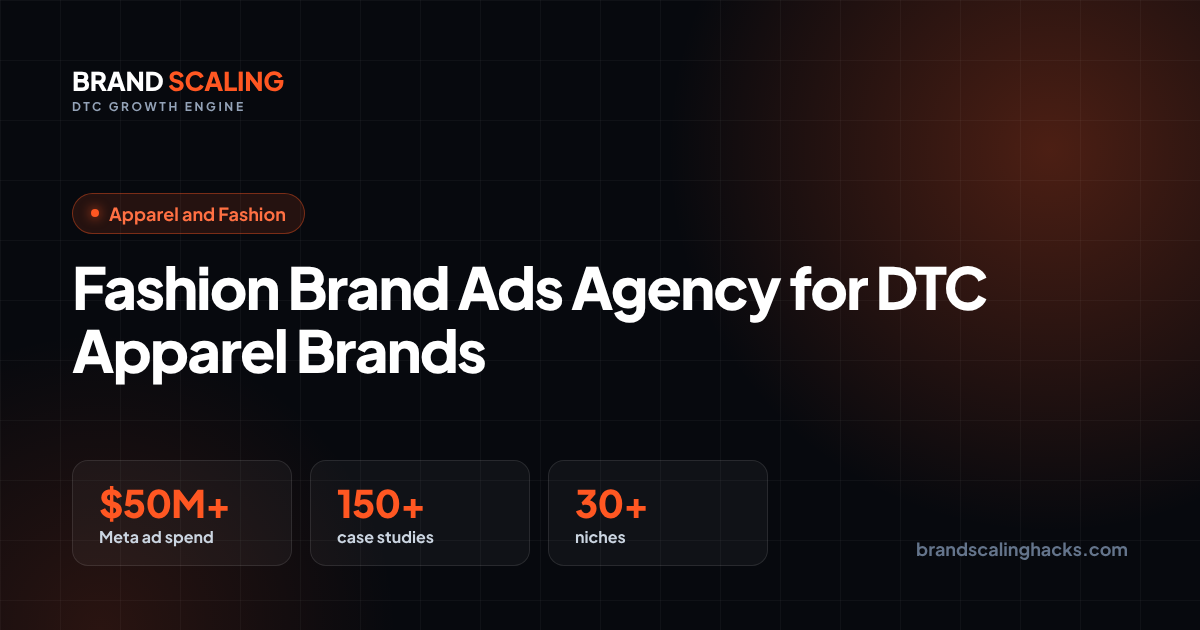
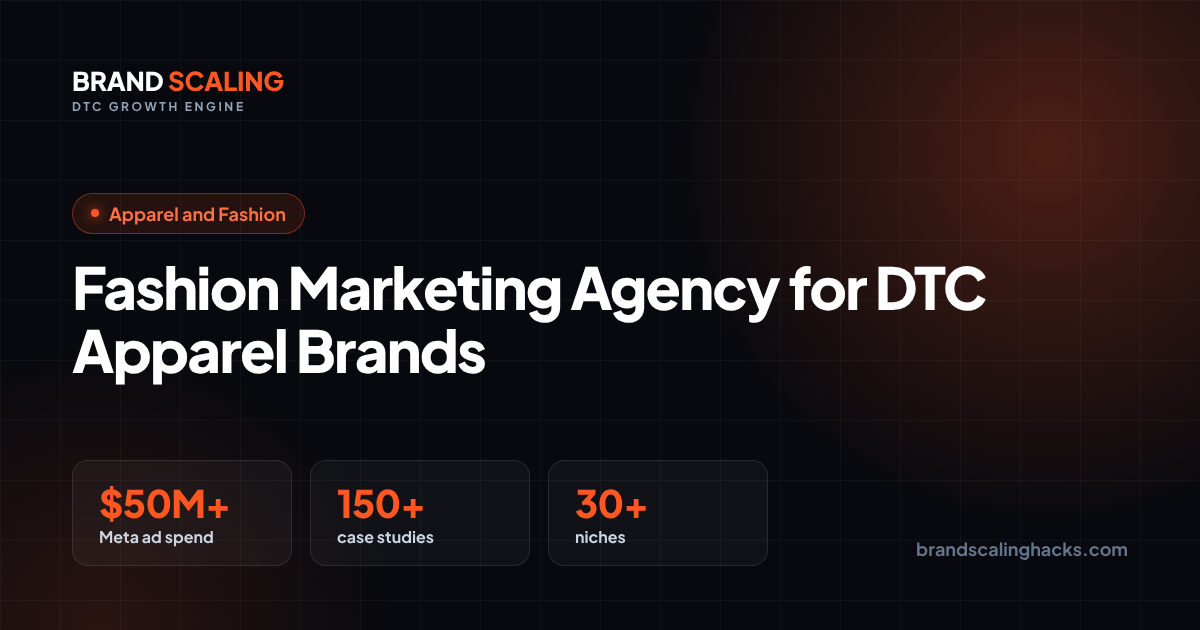
Industry pages retargeted to buyer keywords: fashion, jewelry, supplement, food and beverage marketing agency

Changed region(s): [[0.2467, 0.4222, 0.8017, 0.5127]]

diff --git a/src/data/pages/industry-1.js b/src/data/pages/industry-1.js
@@ -152,10 +152,11 @@ Foundation (days 1 to 14) fixes Conversions API tracking, the offer and the prod
   {
     path: '/for/supplements',
     kind: 'industry',
-    primaryKeyword: 'supplement brand marketing agency',
-    titleTag: 'Supplement Brand Marketing Agency | Brand Scaling',
-    metaDescription: 'Supplement brand marketing agency: compliant Meta and TikTok ads, subscription offers and retention flows. Results include $137,620 in a month at 3.89x.',
-    h1: 'Supplement Brand Marketing Agency for DTC Nutrition Brands',
+    primaryKeyword: 'supplement marketing agency',
+    secondaryKeywords: ['supplement brand marketing agency'],
+    titleTag: 'Supplement Marketing Agency for DTC Brands | Brand Scaling',
+    metaDescription: 'Supplement marketing agency: compliant Meta and TikTok ads, subscription offers and retention flows. Results include $137,620 in a month at 3.89x ROAS.',
+    h1: 'Supplement Marketing Agency for DTC Nutrition Brands',
     eyebrow: 'Supplements and Nutrition',
     quickAnswer: {
       question: 'What should a supplement brand marketing agency handle?',
@@ -295,10 +296,11 @@ One supplement brand we work with did $52,000 in 17 days at 4.51x ROAS on $11,58
   {
     path: '/for/apparel-fashion',
     kind: 'industry',
-    primaryKeyword: 'fashion brand ads agency',
-    titleTag: 'Fashion Brand Ads Agency for DTC Apparel | Brand Scaling',
-    metaDescription: 'Fashion brand ads agency for DTC apparel: Meta and TikTok ads for drops, collections and BFCM, with fit-first creative and lower-return funnels.',
-    h1: 'Fashion Brand Ads Agency for DTC Apparel Brands',
+    primaryKeyword: 'fashion marketing agency',
+    secondaryKeywords: ['fashion brand ads agency'],
+    titleTag: 'Fashion Marketing Agency for DTC Brands | Brand Scaling',
+    metaDescription: 'Fashion marketing agency for DTC apparel brands: Meta and TikTok ads for drops, collections and BFCM, with fit-first creative and lower-return funnels.',
+    h1: 'Fashion Marketing Agency for DTC Apparel Brands',
     eyebrow: 'Apparel and Fashion',
     quickAnswer: {
       question: 'What does a fashion brand ads agency do differently?',
@@ -549,10 +551,11 @@ Steady scaling matters too: a body contouring brand we run did $19,977 in one da
   {
     path: '/for/jewelry',
     kind: 'industry',
-    primaryKeyword: 'jewelry brand ads',
-    titleTag: 'Jewelry Brand Ads Management | Brand Scaling',
-    metaDescription: 'Jewelry brand ads for DTC jewelers: Meta and TikTok campaigns built for gifting seasons, high AOV and trust, including $54K in 7 days at 4.43x ROAS.',
-    h1: 'Jewelry Brand Ads That Sell Through Gifting Seasons',
+    primaryKeyword: 'jewelry marketing agency',
+    secondaryKeywords: ['jewelry brand ads'],
+    titleTag: 'Jewelry Marketing Agency for DTC Brands | Brand Scaling',
+    metaDescription: 'Jewelry marketing agency for DTC jewelers: Meta and TikTok ads built for gifting seasons, high AOV and trust, including $54K in 7 days at 4.43x ROAS.',
+    h1: 'Jewelry Marketing Agency for Gifting-Season Growth',
     eyebrow: 'Jewelry Brands',
     quickAnswer: {
       question: 'How should a DTC jeweler run jewelry brand ads?',

diff --git a/src/data/contentIndex.js b/src/data/contentIndex.js
@@ -131,17 +131,17 @@ export const CONTENT_INDEX = [
   {
     "path": "/for/supplements",
     "kind": "industry",
-    "titleTag": "Supplement Brand Marketing Agency | Brand Scaling",
-    "metaDescription": "Supplement brand marketing agency: compliant Meta and TikTok ads, subscription offers and retention flows. Results include $137,620 in a month at 3.89x.",
-    "h1": "Supplement Brand Marketing Agency for DTC Nutrition Brands",
+    "titleTag": "Supplement Marketing Agency for DTC Brands | Brand Scaling",
+    "metaDescription": "Supplement marketing agency: compliant Meta and TikTok ads, subscription offers and retention flows. Results include $137,620 in a month at 3.89x ROAS.",
+    "h1": "Supplement Marketing Agency for DTC Nutrition Brands",
     "eyebrow": "Supplements and Nutrition"
   },
   {
     "path": "/for/apparel-fashion",
     "kind": "industry",
-    "titleTag": "Fashion Brand Ads Agency for DTC Apparel | Brand Scaling",
-    "metaDescription": "Fashion brand ads agency for DTC apparel: Meta and TikTok ads for drops, collections and BFCM, with fit-first creative and lower-return funnels.",
-    "h1": "Fashion Brand Ads Agency for DTC Apparel Brands",
+    "titleTag": "Fashion Marketing Agency for DTC Brands | Brand Scaling",
+    "metaDescription": "Fashion marketing agency for DTC apparel brands: Meta and TikTok ads for drops, collections and BFCM, with fit-first creative and lower-return funnels.",
+    "h1": "Fashion Marketing Agency for DTC Apparel Brands",
     "eyebrow": "Apparel and Fashion"
   },
   {
@@ -155,9 +155,9 @@ export const CONTENT_INDEX = [
   {
     "path": "/for/jewelry",
     "kind": "industry",
-    "titleTag": "Jewelry Brand Ads Management | Brand Scaling",
-    "metaDescription": "Jewelry brand ads for DTC jewelers: Meta and TikTok campaigns built for gifting seasons, high AOV and trust, including $54K in 7 days at 4.43x ROAS.",
-    "h1": "Jewelry Brand Ads That Sell Through Gifting Seasons",
+    "titleTag": "Jewelry Marketing Agency for DTC Brands | Brand Scaling",
+    "metaDescription": "Jewelry marketing agency for DTC jewelers: Meta and TikTok ads built for gifting seasons, high AOV and trust, including $54K in 7 days at 4.43x ROAS.",
+    "h1": "Jewelry Marketing Agency for Gifting-Season Growth",
     "eyebrow": "Jewelry Brands"
   },
   {
@@ -203,9 +203,9 @@ export const CONTENT_INDEX = [
   {
     "path": "/for/food-beverage",
     "kind": "industry",
-    "titleTag": "Food and Beverage DTC Marketing Agency | Brand Scaling",
+    "titleTag": "Food and Beverage Marketing Agency | Brand Scaling",
     "metaDescription": "Food and beverage DTC marketing for Shopify brands: sampling offers, taste-led creative, shipping cost strategy, subscriptions and repeat rate growth.",
-    "h1": "Food and Beverage DTC Marketing That Builds Repeat Customers",
+    "h1": "Food and Beverage Marketing Agency for DTC and CPG Brands",
     "eyebrow": "Food and Beverage"
   },
   {

diff --git a/src/data/pages/industry-2.js b/src/data/pages/industry-2.js
@@ -249,10 +249,11 @@ Pinterest-style inspiration happens everywhere now, so we treat room and lifesty
   {
     path: '/for/food-beverage',
     kind: 'industry',
-    primaryKeyword: 'food and beverage dtc marketing',
-    titleTag: 'Food and Beverage DTC Marketing Agency | Brand Scaling',
+    primaryKeyword: 'food and beverage marketing agency',
+    secondaryKeywords: ['food and beverage dtc marketing', 'cpg marketing agency'],
+    titleTag: 'Food and Beverage Marketing Agency | Brand Scaling',
     metaDescription: `Food and beverage DTC marketing for Shopify brands: sampling offers, taste-led creative, shipping cost strategy, subscriptions and repeat rate growth.`,
-    h1: 'Food and Beverage DTC Marketing That Builds Repeat Customers',
+    h1: 'Food and Beverage Marketing Agency for DTC and CPG Brands',
     eyebrow: 'Food and Beverage',
     quickAnswer: {
       question: 'What is food and beverage DTC marketing?',
@@ -322,6 +323,7 @@ Alcohol and some functional drinks carry extra platform restrictions on age targ
       { value: '30+', label: 'Niches served', note: 'Across our client accounts' },
     ],
     faqs: [
+      { question: 'Are you a CPG marketing agency?', answer: 'For consumer packaged goods brands that sell direct to consumers online, yes: food, beverage, supplement and personal care brands on Shopify. We run Meta, TikTok and Google ads, creative, the store and email. We do not run retail trade marketing or in-store promotions.' },
       {
         question: 'How do you sell food online when people cannot taste it?',
         answer: `Lower the risk and make the taste vivid. Sampler and variety packs let people try several flavours for a modest price, while sensory video with sound, close-ups and honest first bite reactions helps them imagine eating it. Clear ingredient and dietary information answers the practical questions. Then follow up quickly so a good first experience becomes a second order.`,

diff --git a/docs/seo-change-log.md b/docs/seo-change-log.md
@@ -42,3 +42,4 @@ The "after" column is filled in only from measured data.
 | 29 | 26 Nov 2026 | Metadata and slug pass on all 172 indexable pages. 41 indexable case studies moved from caption-fragment slugs (for example /cases/q4-shaping-up-be-incredible-while-many-slow-down-weekend-ve) to keyword-led slugs (/cases/dropshipping-case-study-133420-in-7-days), each with a 301 from the old URL; existing shortcode redirects repointed to the new slugs (no chains); 2 duplicate case URLs (-dbtl4h, -c8rgka) now 301 to their originals; case meta descriptions end on a full sentence at 155 characters or fewer (no ellipsis); 2 other descriptions shortened (/roas-improvement-agency, /blog/questions-to-ask-meta-ads-agency) | Audit 26 Nov: 0 titles over 60 or duplicated, but 20+ case slugs with word fragments (ve, didn, isn), 11 case slugs over 60 characters, 2 descriptions ending in an ellipsis, 4 over 155 | 41 case URLs (old and new), /roas-improvement-agency, /blog/questions-to-ask-meta-ads-agency | Search Console: impressions and position move from old to new case URLs; URL Inspection of the new URLs; local Apache test: 174 redirects 301 to the right target, 41 new URLs 200 | 15 of the renamed cases indexed under old URLs; old case URLs with impressions: q4-shaping (18, 29.6), 5-crucial-things (14, 22.9), meet-com-clients-sasha (13, 17.4) | **Due 10 Dec** |
 | 30 | 26 Nov 2026 | Layout shift fix: Cormorant Garamond (hero H1 italic) loads with display=optional so a late font swap cannot re-wrap the headline; main reserves the first screen (150vh on home, 100vh + 80px elsewhere) so the footer never paints inside the first screen while lazy sections load | Technical audit 23 Nov: home CLS 0.147 (Google limit 0.1). Lab, throttled mobile, 3 runs: home 0.147 to 0.166, contact 0.091, case pages 0.085 | All pages (index.html, src/App.jsx, src/index.css) | Same lab test after the fix; Search Console Core Web Vitals report | After (lab): home 0.021, contact 0, case page 0.001, /blog/meta-andromeda 0, /about 0, /locations 0 | **Due 10 Dec** (field data) |
 | 31 | 26 Nov 2026 | GEO: Organization schema knowsAbout updated to the keyword lane (DTC marketing, ecommerce growth, Shopify marketing, Shopify Plus, ecommerce CRO, TikTok Shop, Meta Andromeda and more) and a hasOfferCatalog with the 10 core services and their URLs | Owner AEO/GEO plan: entity signals AI tools can quote | All pages (index.html) | Monthly GEO prompt check (audit/geo_prompts.md) | AI mentions 0 (24 Nov baseline) | **Due 21 Dec** |
+| 32 | 26 Nov 2026 | Industry pages retargeted to buyer keywords (title, H1, description, primary keyword; old keyword kept as secondary; URLs unchanged): /for/apparel-fashion "Fashion Marketing Agency for DTC Brands", /for/jewelry "Jewelry Marketing Agency for DTC Brands", /for/supplements "Supplement Marketing Agency for DTC Brands", /for/food-beverage "Food and Beverage Marketing Agency" plus a scope FAQ for "cpg marketing agency" | Owner city and keyword plan (25 Nov, Semrush US): fashion marketing agency 590 (KD 18), jewelry marketing agency 320 (KD 20), supplement marketing agency 110 (KD 3), food and beverage marketing agency 590 (KD 11), cpg marketing agency 1,600 (KD 16); pages last edited 5 and 9 Nov | 4 industry pages | Search Console position per keyword (now tracked in the 12-hourly report) | Old titles "Fashion Brand Ads Agency for DTC Apparel", "Jewelry Brand Ads Management", "Supplement Brand Marketing Agency", "Food and Beverage DTC Marketing Agency" | **Due 10 Dec** |

diff --git a/docs/seo-worklog.md b/docs/seo-worklog.md
@@ -336,3 +336,4 @@ Queue (next sessions, highest impact first):
 - Technical: layout shift fixed (home CLS 0.166 to 0.021 in throttled lab tests; other pages 0 to 0.001).
 - GEO: Organization knowsAbout and a services OfferCatalog in the sitewide schema.
 - AEO: confirmed every content page and blog post opens with a direct answer (0 missing).
+- Day 2 items done the same day: 4 industry pages retargeted to buyer keywords from the owner plan (fashion, jewelry, supplement, food and beverage marketing agency), CPG scope FAQ, 5 keywords added to tracking.
